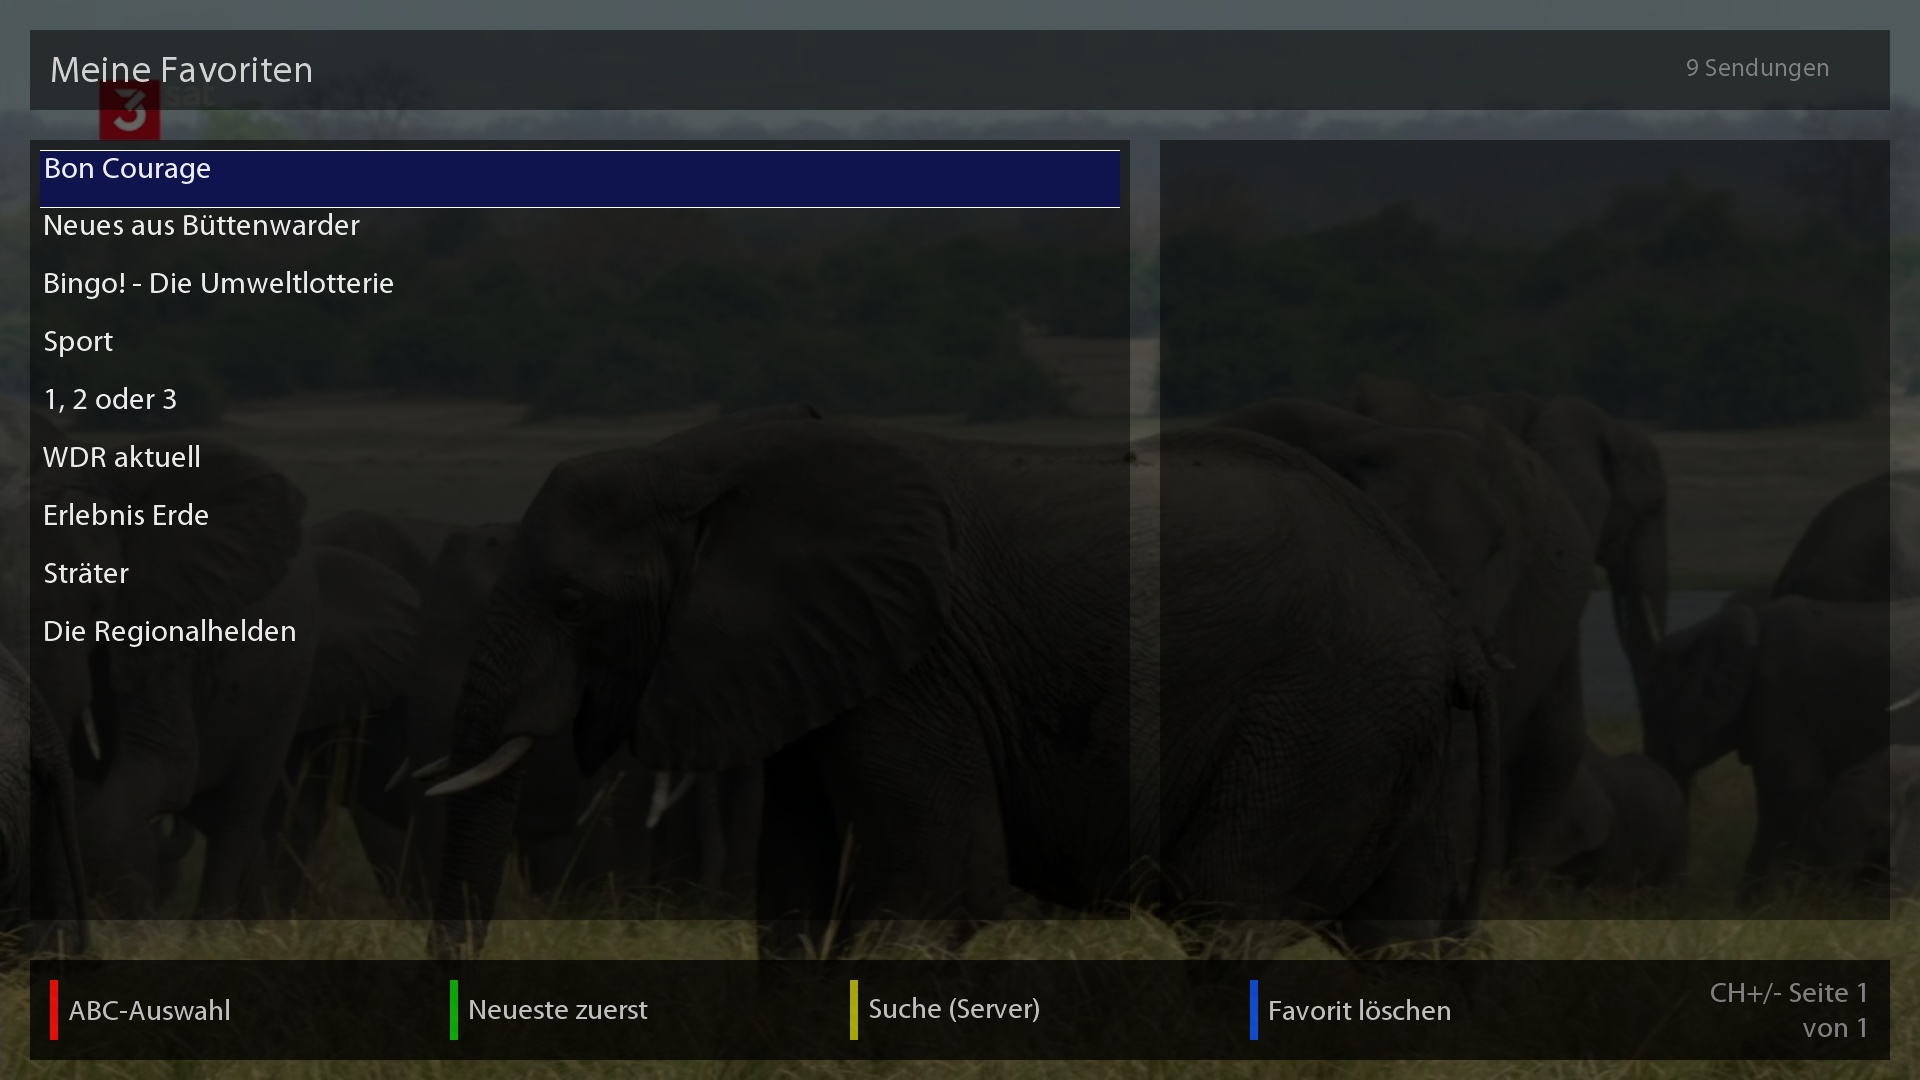
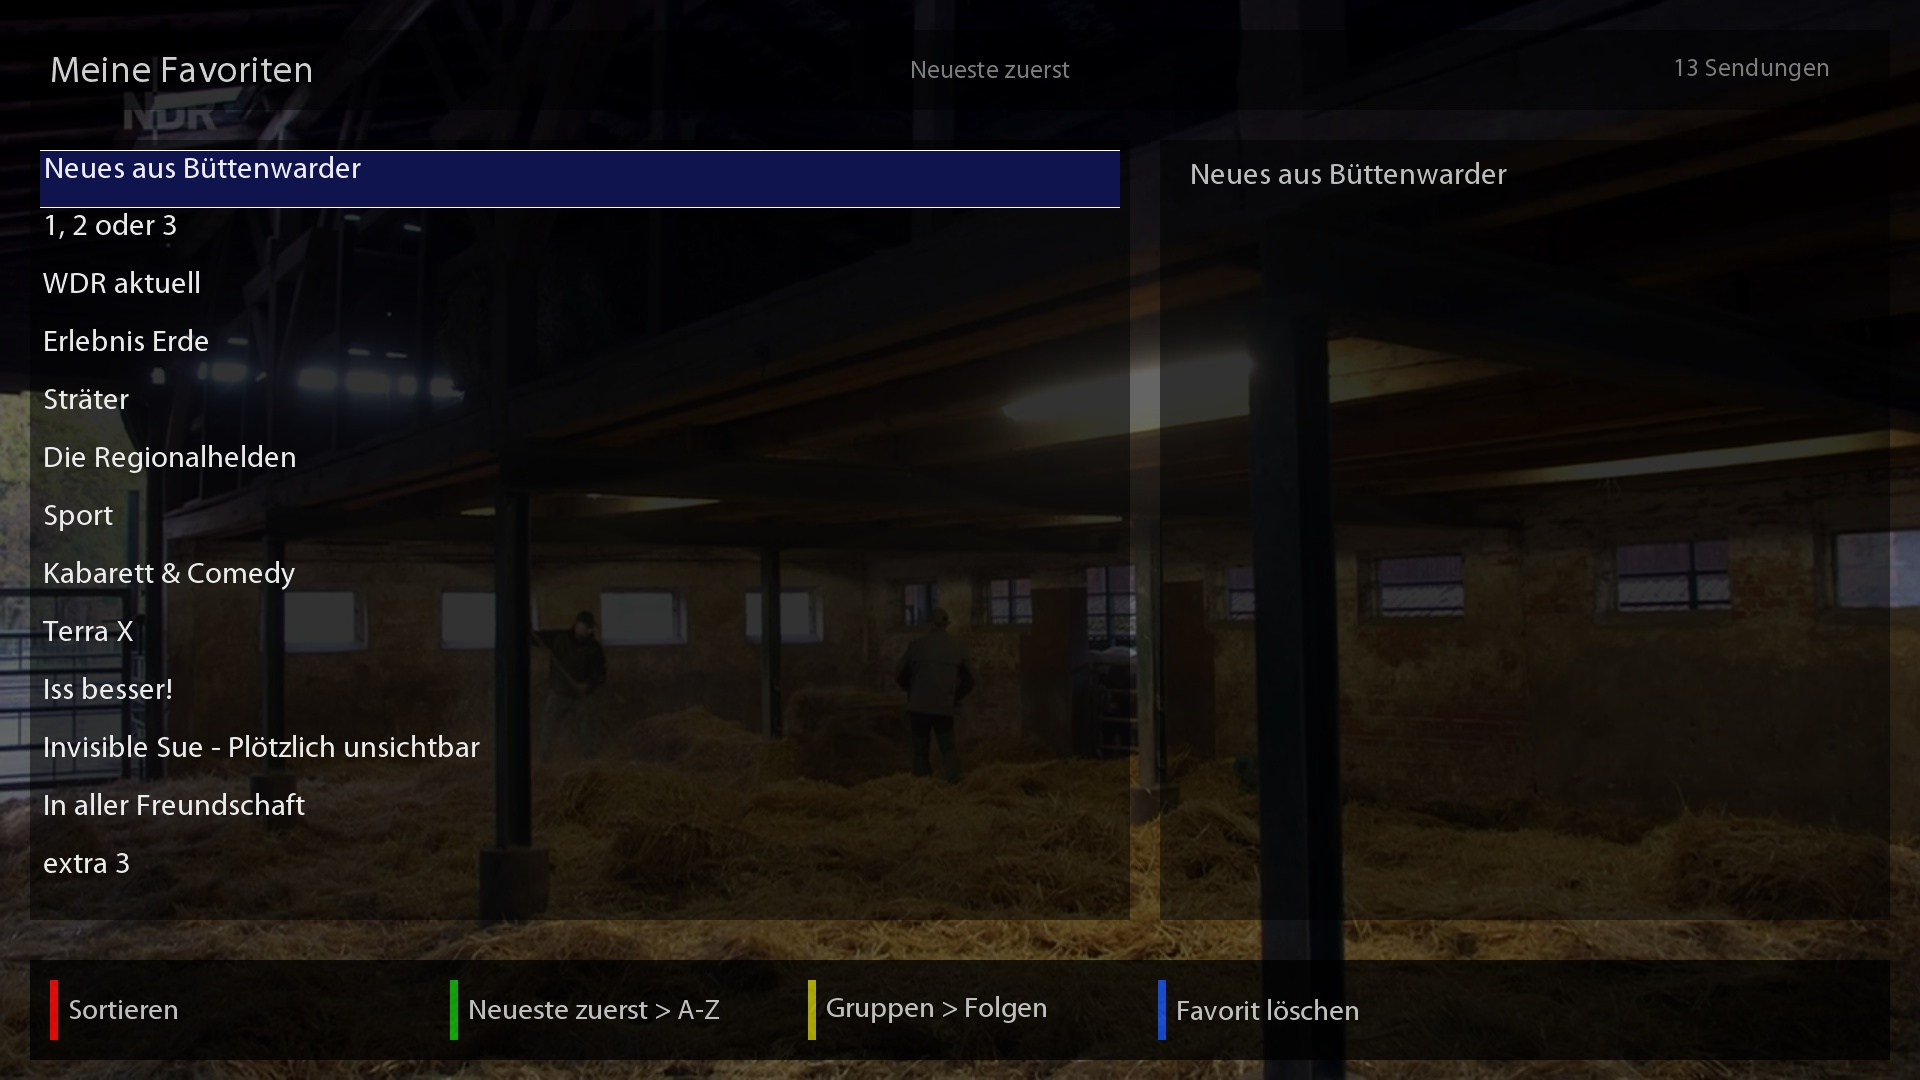
Screenshots aktualisiert und README angepasst

diff --git a/README.md b/README.md
@@ -16,24 +16,20 @@ Zusätzlich gibt es zwei neue Kacheln:
 
 <table>
   <tr>
-    <td><img src="screenshots/HauptScreen1.jpg" width="400"/><br/>Hauptmenü</td>
-    <td><img src="screenshots/HauptScreen2.jpg" width="400"/><br/>Hauptmenü (weitere Sender)</td>
+    <td><img src="screenshots/Hauptseite1.jpg" width="400"/><br/>Hauptmenü</td>
+    <td><img src="screenshots/Hauptseite2.jpg" width="400"/><br/>Hauptmenü (weitere Sender)</td>
   </tr>
   <tr>
-    <td><img src="screenshots/AlleMediatheken.jpg" width="400"/><br/>Alle Mediatheken</td>
-    <td><img src="screenshots/SenderMediathek-offen.jpg" width="400"/><br/>Sender-Mediathek geöffnet</td>
+    <td><img src="screenshots/Hauptseite3.jpg" width="400"/><br/>Hauptmenü (Seite 3)</td>
+    <td><img src="screenshots/Alle%20Mediatheken.jpg" width="400"/><br/>Alle Mediatheken</td>
   </tr>
   <tr>
-    <td><img src="screenshots/Serie-Folgenübersicht.jpg" width="400"/><br/>Serien-Folgenübersicht</td>
-    <td><img src="screenshots/ABC-Auswahl.jpg" width="400"/><br/>A-Z Sortierung</td>
+    <td><img src="screenshots/Mediathek.jpg" width="400"/><br/>Sender-Mediathek</td>
+    <td><img src="screenshots/Serie%20%C3%9Cbersicht.jpg" width="400"/><br/>Serien-Folgenübersicht</td>
   </tr>
   <tr>
-    <td><img src="screenshots/Suche.jpg" width="400"/><br/>Suche</td>
     <td><img src="screenshots/Favoriten.jpg" width="400"/><br/>Favoriten</td>
-  </tr>
-  <tr>
-    <td><img src="screenshots/Stream-Aktiv.jpg" width="400"/><br/>Stream aktiv</td>
-    <td></td>
+    <td><img src="screenshots/Einstellungen.jpg" width="400"/><br/>Einstellungen</td>
   </tr>
 </table>
 
@@ -115,7 +111,7 @@ ORF-Inhalte erfordern das VTi-Systemplugin **ServiceApp** (im VTi-Feed unter *Sy
 Die ZIP-Datei aus dem [Releases-Bereich](../../releases) herunterladen, entpacken und die IPK-Datei auf die Box übertragen (z.B. per FTP nach `/tmp/`), dann auf der Box:
 
 ```
-opkg install enigma2-plugin-extensions-oemediathek_1.6.2_all.ipk
+opkg install enigma2-plugin-extensions-oemediathek_1.6.3_all.ipk
 ```
 
 Anschließend Enigma2 neu starten.